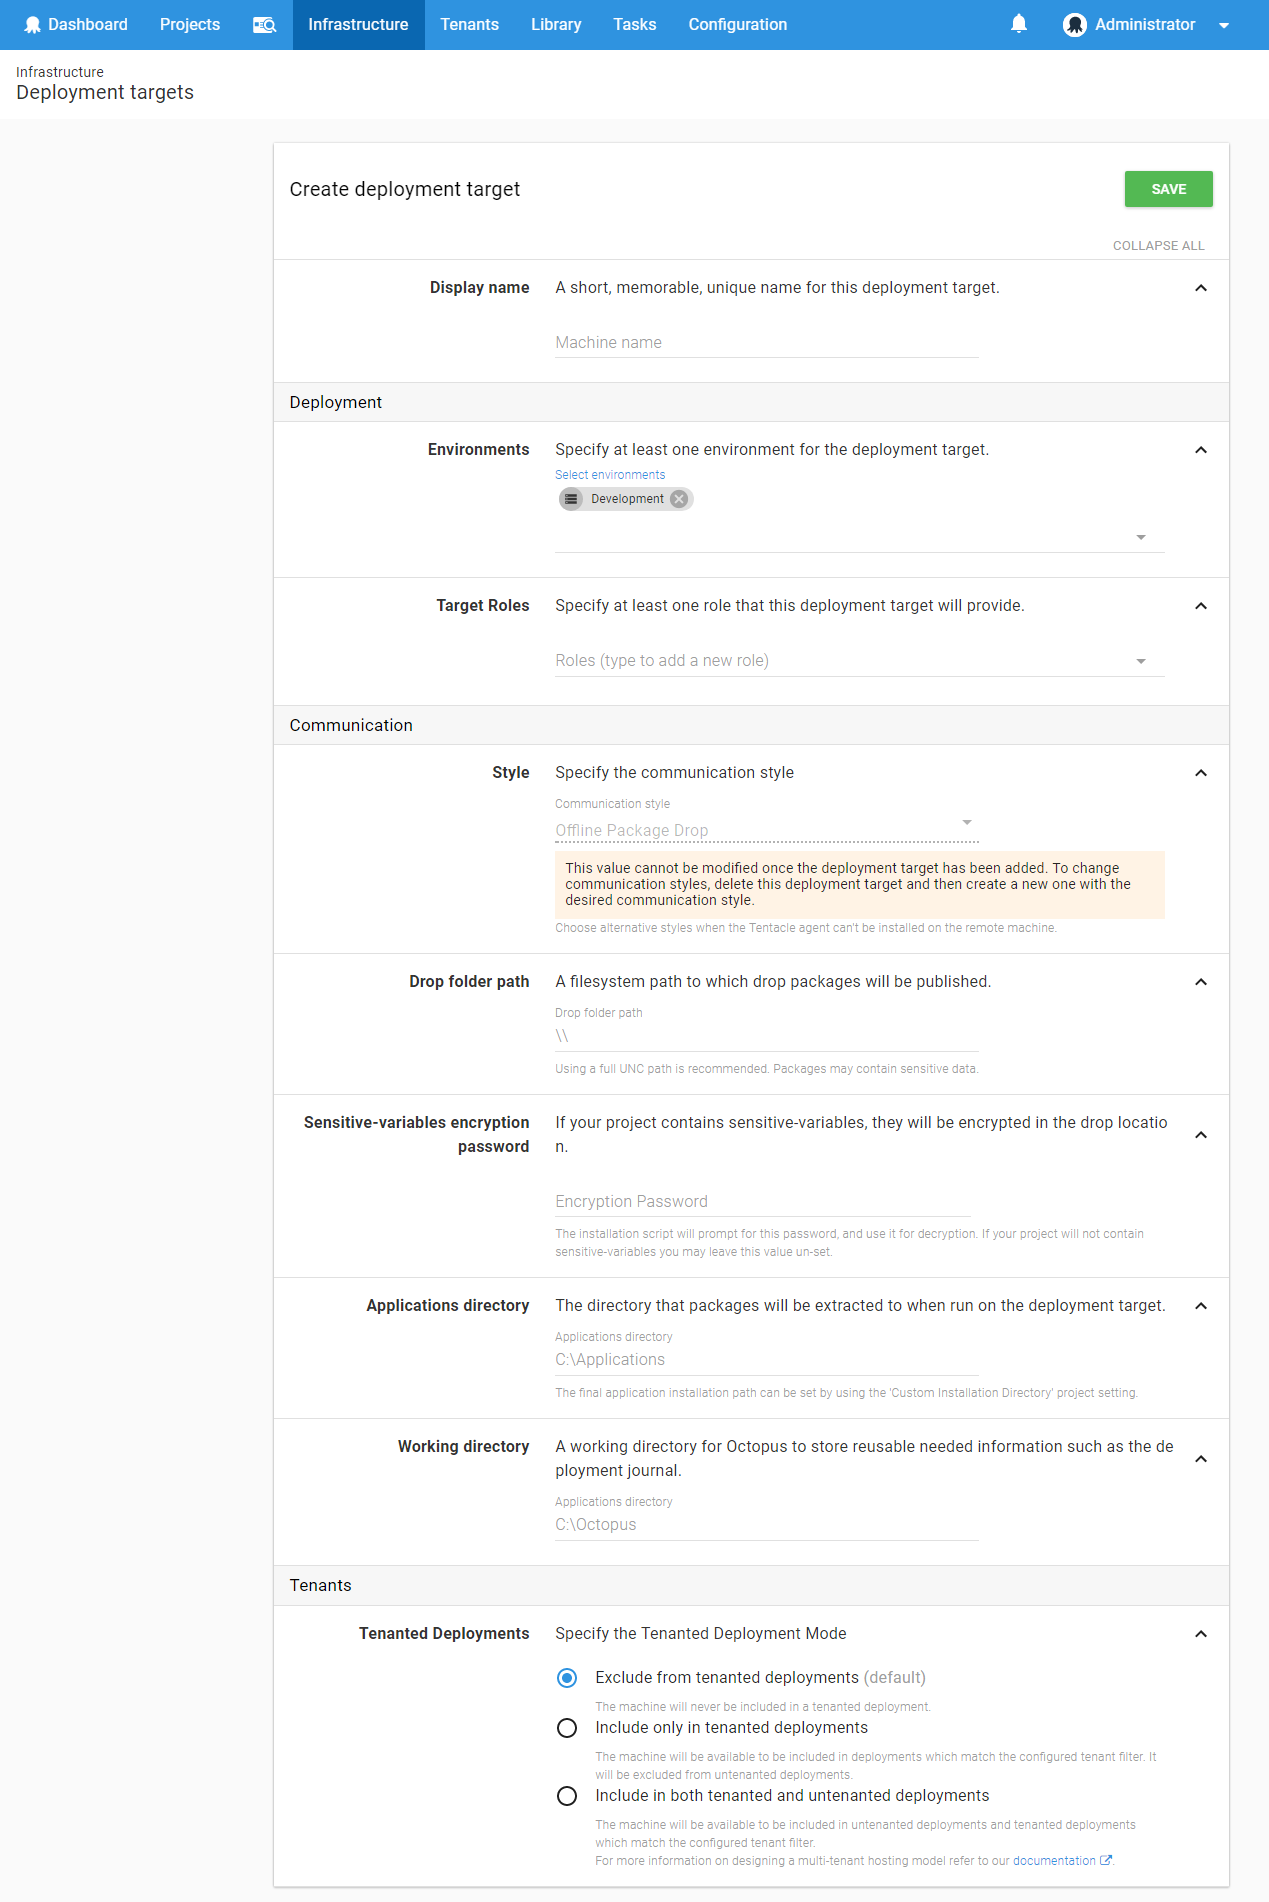
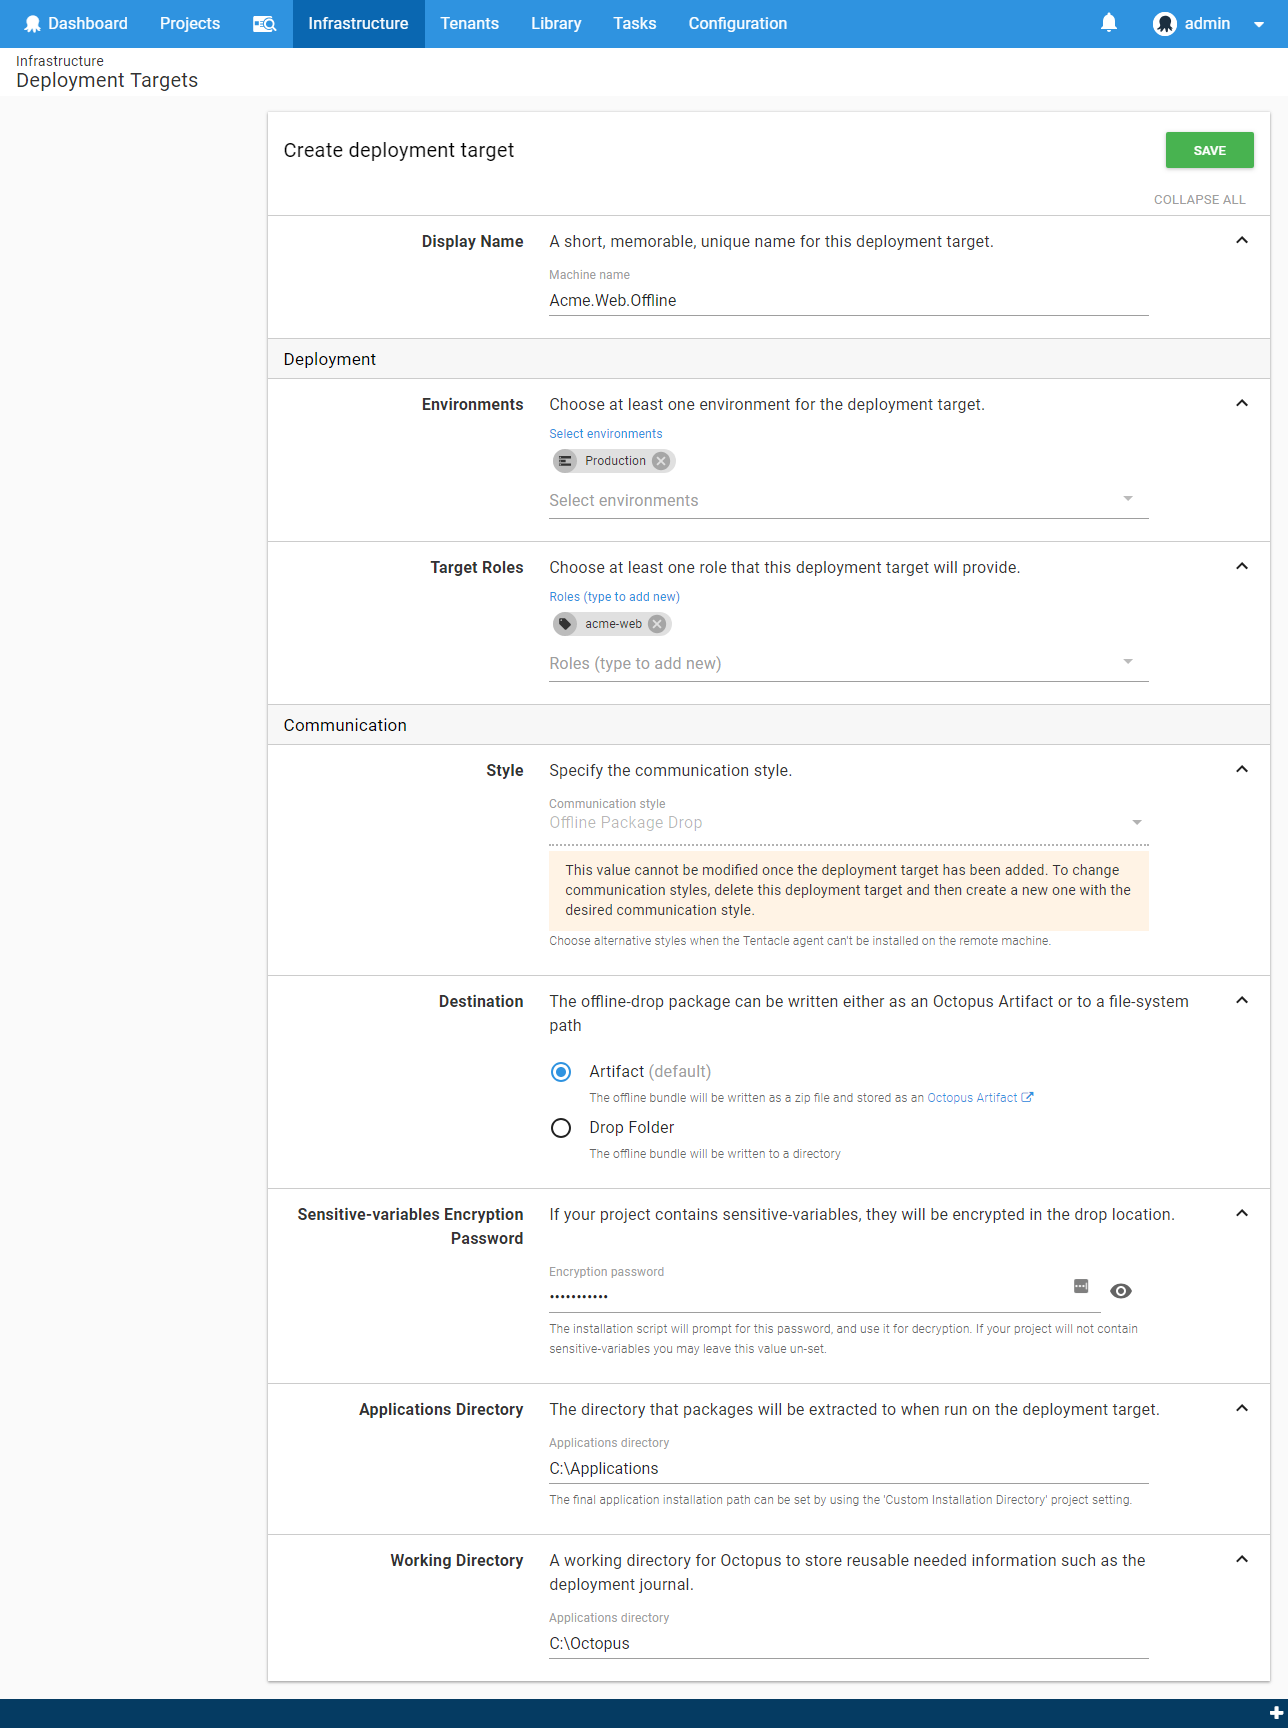
Added docs for offline package drops as artifacts

diff --git a/docs/infrastructure/offline-package-drop.md b/docs/infrastructure/offline-package-drop.md
@@ -14,7 +14,21 @@ Offline Package Drop is available as a deployment target.
 
 ![](images/create-new-offline-package-drop-target-part2.png "width=500")
 
-### Drop Folder Path {#OfflinePackageDrop-Dropfolderpath}
+### Destination
+
+The executable bundle created when deploying to an Offline Package Drop target can be persisted in one of two modes:
+
+#### Artifact {#OfflinePackageDrop-Artifact}
+
+The bundle can be zipped and attached as an [Octopus Artifact](/docs/deployment-process/artifacts.md) to the deployment. It can then be downloaded when required. 
+
+:::hint
+Octopus Cloud instances will almost certainly want to use _Artifact_ as the destination.
+:::
+
+### Drop Folder {#OfflinePackageDrop-Dropfolderpath}
+
+The bundle can alternatively be configured to be written directly to a file-system path.
 
 Configure the drop folder path field with the [UNC path](http://en.wikipedia.org/wiki/Path_%28computing%29#Uniform_Naming_Convention) to the directory you wish your offline packages to be located.
 
@@ -36,7 +50,54 @@ The Octopus working directory is a location where some supporting files (e.g. th
 
 When Octopus deploys to an Offline Package Drop target it doesn't actually execute the deployment, but will create a folder structure complete with Packages, Scripts, Variable files, Calamari and a batch file to execute the deployment on the actual target server. This example is from the `OctoFX.TradingWebsite` example on [https://demo.octopus.com](https://demo.octopus.com).
 
-**Example Offline Package Drop using the OctoFX Trading Website**
+### Naming Conventions 
+
+#### Artifact Destination
+
+When using _Artifact_ for the destination, the zip file will be named
+
+```
+{{Project Name}}.{{Environment Name}}.{{Offline Drop Target Name}}.{{Release Number}}.zip
+```
+
+or if it is a tenanted deployment then
+
+```
+{{Project Name}}.{{Environment Name}}.{{Tenant Name}}.{{Offline Drop Target Name}}.{{Release Number}}.zip
+```
+
+For example
+
+```
+OctoFX.Production.PWebOffline01.3.3.10827.zip
+```
+
+The directory structure inside the zip file will resemble:
+
+```
+ |   My Offline Drop Target.OctoFX.Deployments-2.cmd
+ |   My Offline Drop Target.OctoFX.Deployments-2.ps1
+ |   
+ +---Calamari
+ |   |   Calamari.exe
+ |   |   ...
+ |           
+ +---Packages
+ |       OctoFX.TradingWebsite.3.0.298_B47863CDE8E3F24E95873F4B59FE990E.nupkg
+ |       
+ +---Scripts
+ |       Remove from Load Balancer.ps1
+ |       Return to load balancer.ps1
+ |       
+ \---Variables
+         My Offline Drop Target.OctoFX.Remove from Load Balancer.variables.json
+         My Offline Drop Target.OctoFX.Return to load balancer.variables.json
+         My Offline Drop Target.OctoFX.Trading Website.variables.json
+```
+
+#### Drop Folder Destination
+
+An example of the directory structure which will be created when deploying to an Offline Package Drop target configured with a Drop Folder destination is shown below. In this example, the Drop Folder was configured as `\\my-share\octopus-drops`. 
 
 ```powershell
 \\my-share
@@ -65,10 +126,6 @@ When Octopus deploys to an Offline Package Drop target it doesn't actually execu
 
 ```
 
-In this example you can see the batch file that will call Calamari to orchestrate the deployment of the `OctoFX.TradingWebsite` package. You can also see the `Remove from Load Balancer.ps1` and `Return to load balancer.ps1` scripts that will be executed as part of the deployment process. Finally you can see the variable files that will be used to configure the variables for each step in the deployment.
-
-:::hint
-**Naming Conventions**
 The Offline Package Drop will be built and copied into a folder named by this convention:
 
 ```
@@ -99,8 +156,3 @@ Usually the reason you need to use Offline Package Drop is for some kind of secu
 ## Deploying the Offline Package Drop {#OfflinePackageDrop-DeployingtheOfflinePackageDrop}
 
 To Deploy the Offline Package Drop simply copy the entire folder for that release to the target server and execute the batch file. This will actually execute the deployment on the target server just like Tentacle would.
-
-:::hint
-**Output Variables**
-Octopus 2018.3.8 introduced support for output variables for offline drops.
-:::
